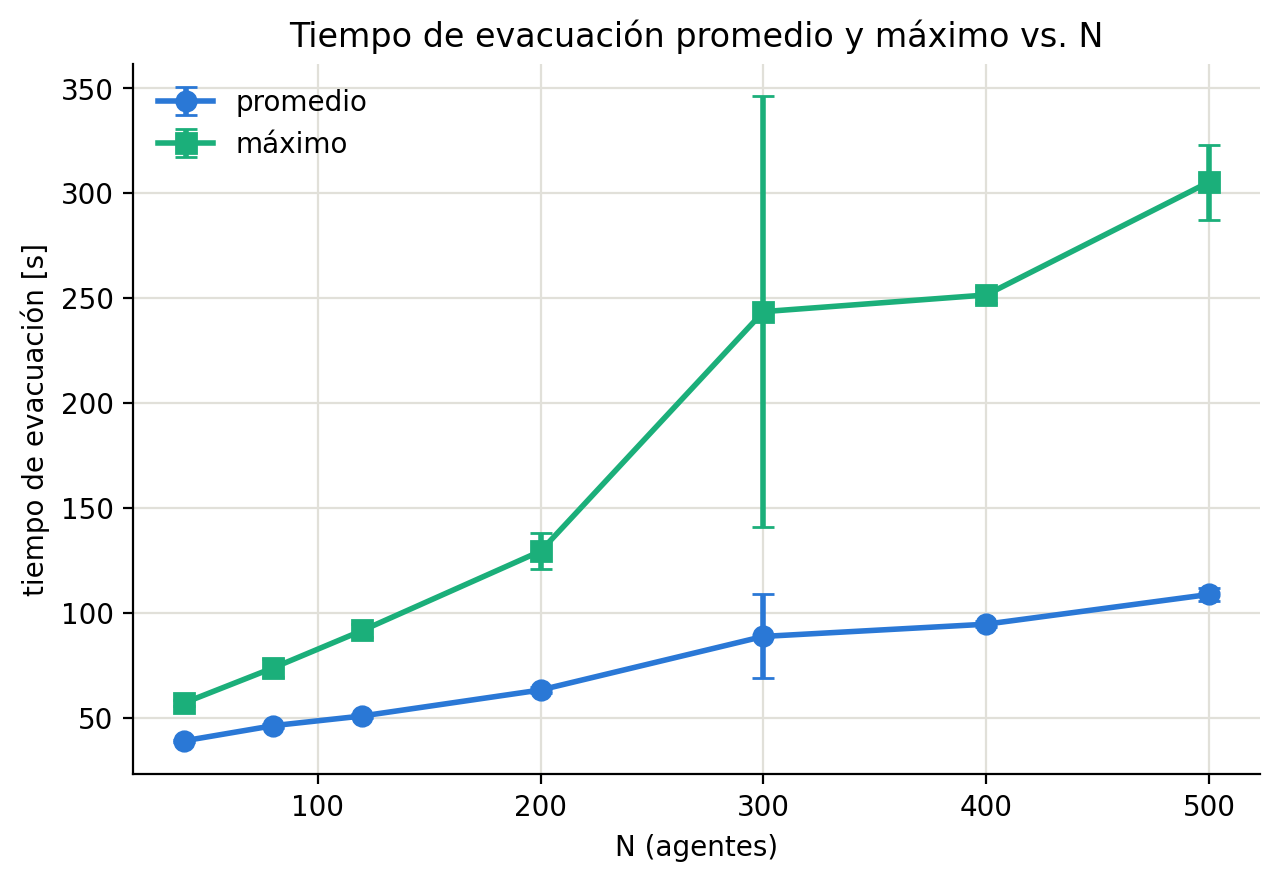
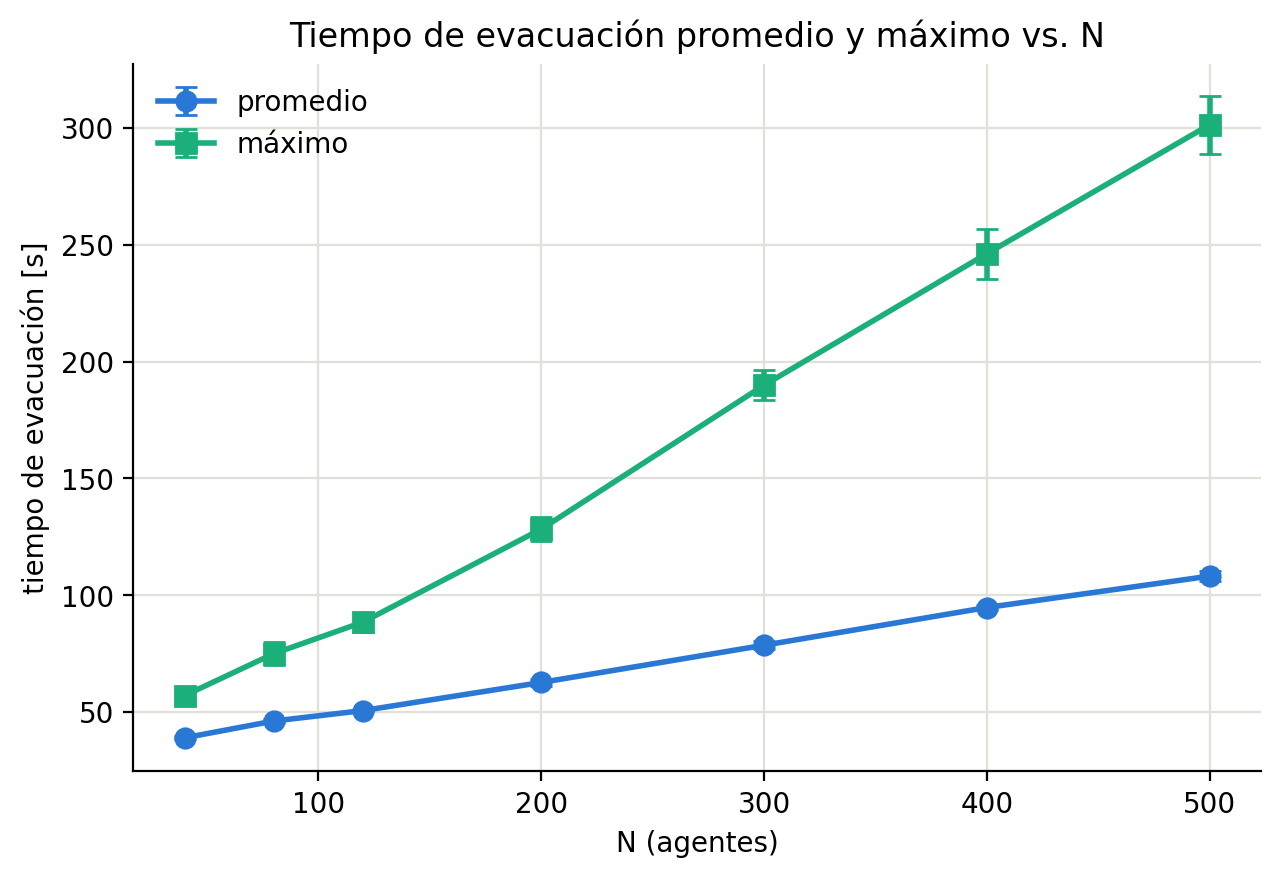
UPDATE informe y ppt

diff --git a/informe/informe.tex b/informe/informe.tex
@@ -158,8 +158,7 @@ Animación & Cada planta en 2D (círculos) más una vista 3D a 45\textdegree{} c
 apiladas. \\
 \bottomrule
 \end{tabular}
-\caption{Cambios de la ampliación a 3D por módulo. Las decisiones de diseño están registradas
-en \texttt{DECISIONES.md} (D1--D23).}
+\caption{Cambios de la ampliación a 3D por módulo.}
 \label{tab:modulos}
 \end{table}
 
@@ -188,8 +187,8 @@ El \emph{foot-target} pasa a \texttt{Vec3} de punta a punta del pipeline (máqui
 $\rightarrow$ PreOM $\rightarrow$ modelo físico, que lo proyecta a $xy$). El grafo se genera
 \textbf{por planta} con el generador automático de grilla existente, y los subgrafos se unen con
 aristas de escalera (nodo al pie $\leftrightarrow$ nodo al tope) cuyo costo es el largo real del
-tramo inclinado (distancia 3D). La heurística del A* pasa a distancia euclídea 3D, como pide el
-enunciado. La visibilidad y el \emph{Furthest Visible Point} son por planta: un agente no ``ve''
+tramo inclinado (distancia 3D). La heurística del A* pasa a distancia euclídea 3D. La visibilidad
+y el \emph{Furthest Visible Point} son por planta: un agente no ``ve''
 nodos de otra planta, porque hay una losa en el medio; el cruce entre plantas ocurre sólo por la
 arista de escalera. El grafo se construye desde la geometría, única fuente con la $z$ y las
 escaleras.
@@ -201,7 +200,8 @@ sobre el tramo hay pocos agentes). En los descansos los contenedores se acoplan:
 planta consulta su grilla más los puentes que aterrizan ahí, y el agente en escalera consulta su
 puente más las dos grillas de las plantas que conecta. Se descartó asignar al agente de escalera
 la planta más cercana (dos agentes cerca del punto medio del tramo caerían en grillas distintas y
-\emph{no se verían}: una discontinuidad justo donde el enunciado pide continuidad) y también una
+\emph{no se verían}: una discontinuidad artificial en un tramo que es físicamente continuo) y
+también una
 grilla 3D (las celdas verticales no aportan: los pisos son planos y su separación es discreta). Se
 preservó ---y se testeó--- la detección de las paredes por su punto más cercano, y de sus vértices
 cuando el vértice es el punto más cercano.
@@ -221,7 +221,7 @@ La salida gana una columna $z$ inmediatamente después de $y$
 (\texttt{tout; x; y; z; vx; vy; state; id}): agrupa la posición 3D y deja la velocidad planar
 junta. Como se controlan todos los consumidores del formato, no hubo costo de compatibilidad. Cada
 planta se sigue animando en 2D (círculos coloreados por estado, con filtro por planta) y se agrega
-una vista 3D a 45\textdegree{} con las plantas apiladas, como pide el enunciado.
+una vista 3D a 45\textdegree{} con las plantas apiladas.
 
 \paragraph{La integración multiplanta.}
 Cada módulo quedó verde en aislamiento con sus tests unitarios, pero al correr el \emph{primer}
@@ -397,13 +397,14 @@ corresponde al modo crisis (perfil por generador).}
 \end{description}
 
 \paragraph{Zona de interés del Ingreso.}
-El enunciado sugiere observar ``una zona, por ejemplo antes de la escalera''. Se probó el pie de
-la escalera principal y no muestra congestión apreciable: la escalera \emph{switchback} es ancha
-(dos carriles) y sólo la mitad de los alumnos suben a la planta alta, repartidos entre las dos
-escaleras y a lo largo de la ventana, de modo que el pie queda casi vacío. La congestión del
-Ingreso se forma en cambio en el frente del kiosco, donde se agolpan los alumnos que entran por
-el recreo. Se adoptó como zona observable el rectángulo del kiosco, $R=[2,14]\times[42,52]$ en
-$z=0$; el ``por ejemplo'' del enunciado habilita medir donde efectivamente hay congestión.
+Como zona de interés se evaluó primero el pie de la escalera principal, un punto habitual de
+observación en estudios de congestión de ingreso. Se probó ese punto y no muestra congestión
+apreciable: la escalera \emph{switchback} es ancha (dos carriles) y sólo la mitad de los alumnos
+suben a la planta alta, repartidos entre las dos escaleras y a lo largo de la ventana, de modo
+que el pie queda casi vacío. La congestión del Ingreso se forma en cambio en el frente del
+kiosco, donde se agolpan los alumnos que entran por el recreo. Se adoptó como zona observable el
+rectángulo del kiosco, $R=[2,14]\times[42,52]$ en $z=0$, por ser donde efectivamente se concentra
+la congestión.
 
 \paragraph{Realizaciones.}
 Cada punto de los barridos se obtiene de \textbf{5 realizaciones} (semillas 1 a 5); la semilla
@@ -681,7 +682,7 @@ java -Dsimped.seed=1 -cp "target/classes:$(cat out/.cp.txt)" \
 python tools/visualize_simulation_3d.py --scenario scenarios/escuela \
      --output out/escuela.csv --out out/escuela_3d.mp4 --stride 3
 
-# Evacuacion: barrido N en {40, 80, 120}, 5 semillas + figuras
+# Evacuacion: barrido N en {40, 80, 120, 200, 300, 400, 500}, 5 semillas + figuras
 python tools/sweep_run.py --mode evacuacion --values 40,80,120,200,300,400,500 --seeds 1,2,3,4,5 --om cpm
 python tools/plot_evacuacion.py --sweep-dir out/sweeps/evacuacion --seeds all --out-prefix out/evac
 

diff --git a/presentacion/SdS_TPFinal_2026Q1G05_Presentacion.tex b/presentacion/SdS_TPFinal_2026Q1G05_Presentacion.tex
@@ -360,7 +360,9 @@
 
 \begin{frame}[c]{La distribución de tiempos de evacuación es bimodal}
   \centering
-  \includegraphics[width=0.95\linewidth]{evac_hist.png}\\[4pt]
+  \includegraphics[width=0.95\linewidth,height=0.5\textheight,keepaspectratio]{evac_curves_band.png}\\[2pt]
+  {\footnotesize Curvas de densidad con banda $\pm\sigma$ entre 5 realizaciones (por
+    legibilidad, sólo $N=80,200,300,400,500$).}
   \begin{itemize}
     \item El lóbulo rápido es la \textbf{planta baja}; el lento, la \textbf{planta alta},
       que debe bajar la escalera a velocidad reducida.
@@ -373,18 +375,21 @@
   \begin{columns}[T]
     \begin{column}{0.56\textwidth}
       \centering
-      \includegraphics[width=\linewidth,height=0.74\textheight,keepaspectratio]{evac_scalar.png}
+      \includegraphics[width=\linewidth,height=0.66\textheight,keepaspectratio]{evac_scalar.png}
     \end{column}
     \begin{column}{0.42\textwidth}
+      \small
       \textbf{Observaciones}
       \begin{itemize}
-        \item El edificio se vacía completo en todo el rango: de $N=40$ a $500$ el
-          promedio pasa de $38.9\pm0.6$ a $108.7\pm3.2$~s.
-        \item Entre $N=200$ y $300$ el \textbf{máximo} salta de $129\pm9$ a
-          $244\pm103$~s: las escaleras pasan a trabajar \textbf{saturadas}.
-        \item La dispersión ($\pm\,\sigma$, 5 realizaciones) es máxima en ese cruce:
-          en $N=300$ un atasco transitorio estiró una realización a $427$~s.
-        \item Queda $\approx 1$ agente sin evacuar por corrida, constante en $N$.
+        \item El edificio se vacía completo en todo el rango: de $N=40$ a $500$
+          el promedio pasa de $38.9$ a $108.2$~s ($\times2.8$).
+        \item El \textbf{máximo} crece más rápido, de $57.0$ a $301.4$~s
+          ($\times5.3$): lo gobierna el agente más rezagado del lóbulo lento.
+        \item Desde $N\approx200$ la brecha promedio--máximo crece a ritmo
+          casi constante ($\sim$40--45~s cada 100 agentes): la escalera trabaja
+          \textbf{saturada}, con cola en su boca.
+        \item Queda $\approx 1$ agente sin evacuar por corrida, constante en
+          $N$ ($1.0$ a $1.2$ en todo el barrido).
       \end{itemize}
     \end{column}
   \end{columns}